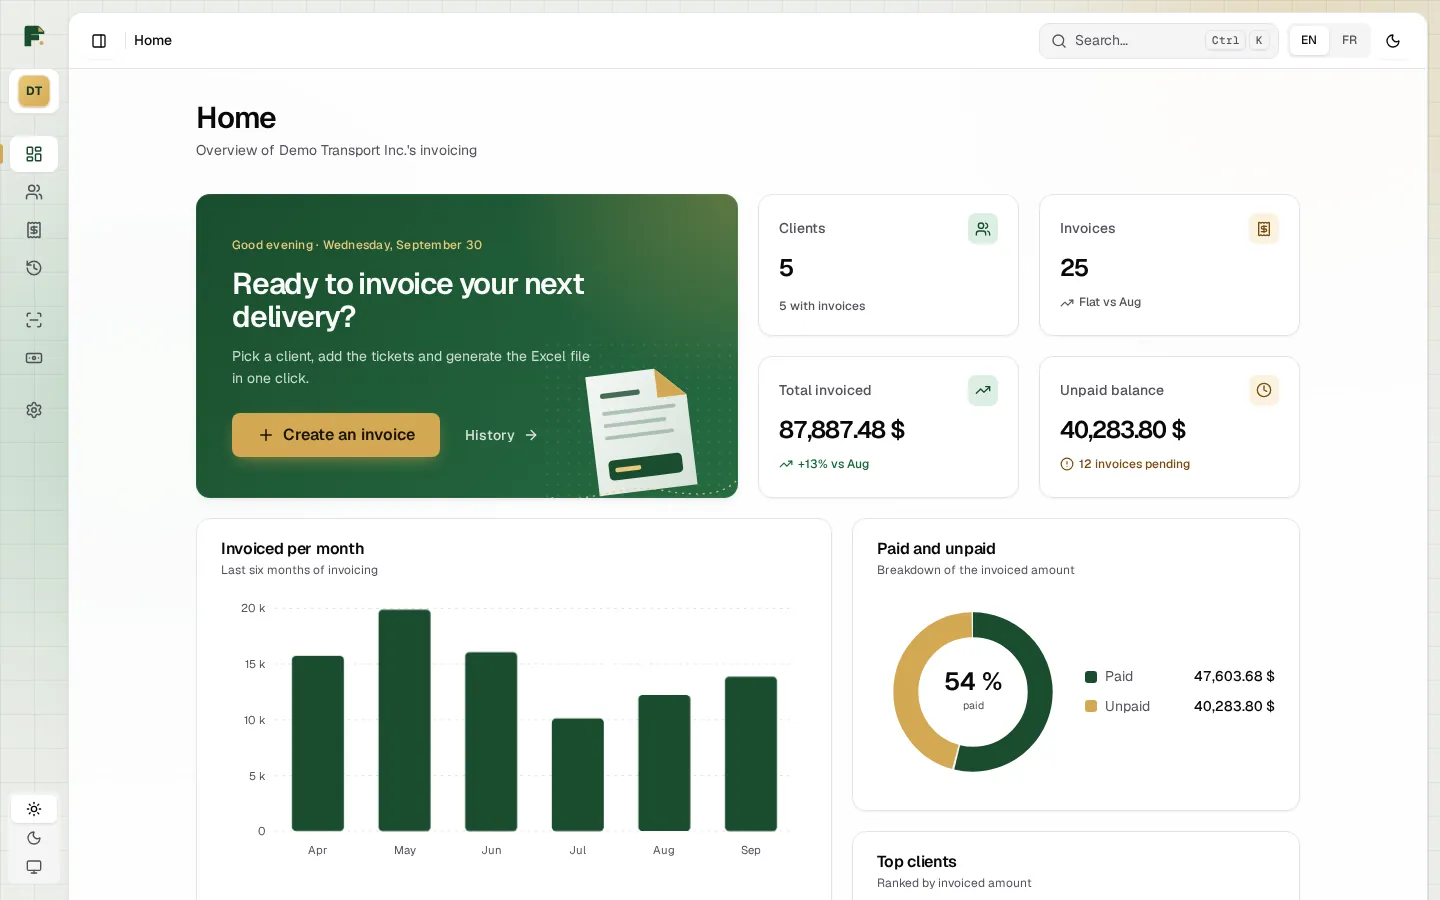
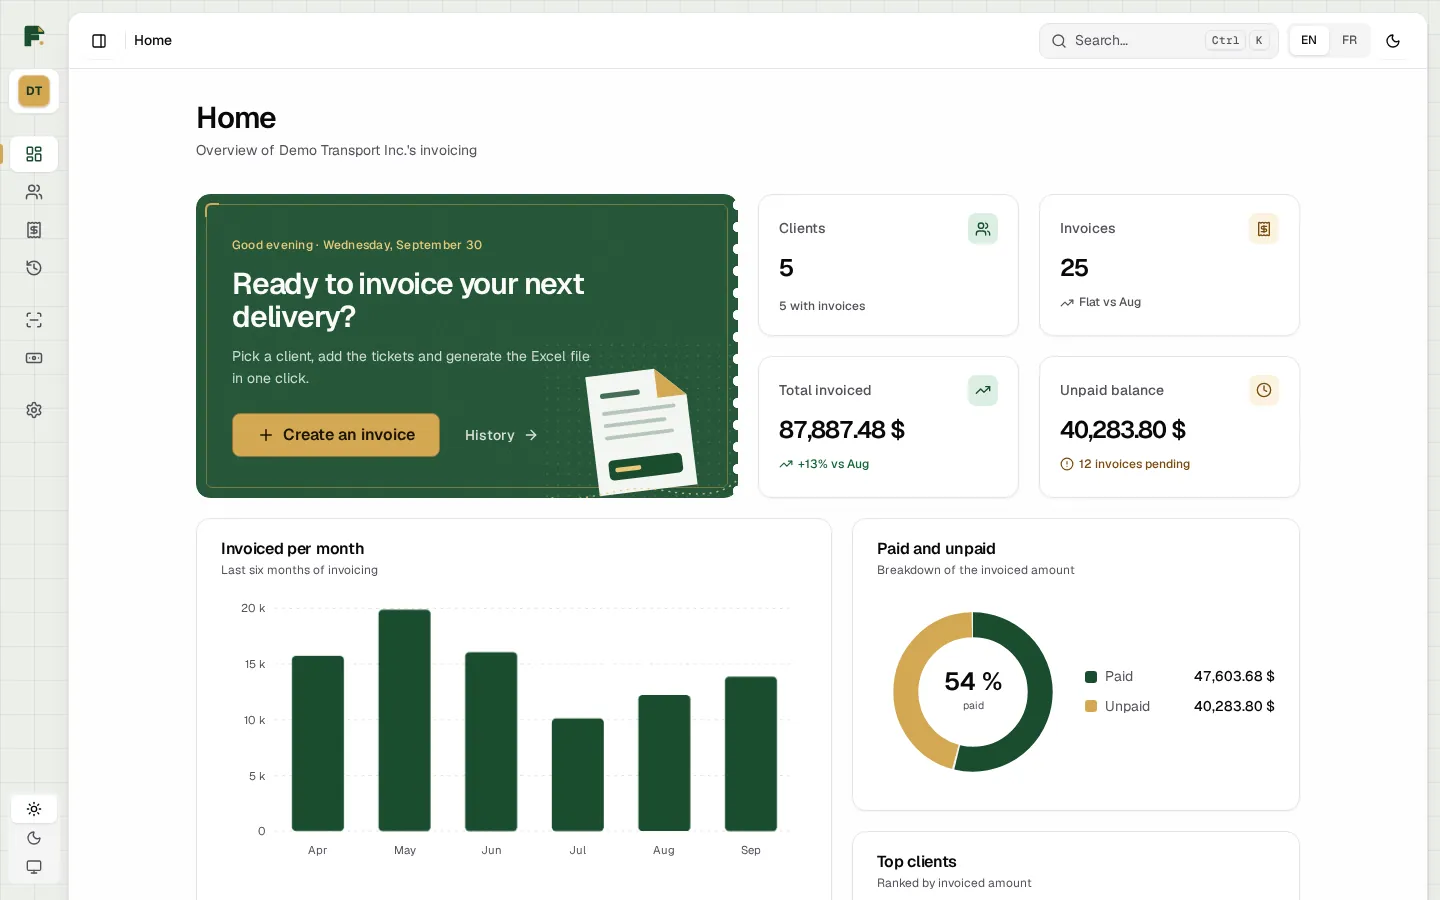
docs: flat-style screenshots, visual style notes and refreshed counts
Regenerates the ten README screenshots with the flat cards and the stamp,
documents the no-decorative-gradient rule and its allow-list in UI.md, adds
the CHANGELOG entry and updates the test counts.

diff --git a/docs/UI.md b/docs/UI.md
@@ -34,13 +34,29 @@ a colour in a component: use a token, so both themes stay correct.
 | `--success-*`, `--danger-*`, `--info-*`, `--gold-*` | fg / bg / border sets | dark sets | Status chips, alerts |
 | `--chart-1` … `--chart-5` | green, gold, mid green, brown, grey | lighter variants | Charts |
 | `--sidebar-*` | sidebar surface, text, accent | dark sidebar | Sidebar |
-| `--brand-deep`, `--brand-deep-2`, `--on-brand` | `#1a4d2e`, `#256b41`, `#fafafa` | same | Hero and invoice total card (always dark green) |
+| `--brand-deep`, `--on-brand` | `#1a4d2e`, `#fafafa` | `#14382a`, same | Hero and invoice total card: a flat dark green, never a gradient |
+| `--grain`, `--hairline-gold` | a faint noise image, gold at about 45% | same idea | The grain laid over flat cards and the page, and the thin gold frame on the brand cards |
 | `--radius` (+ `sm`, `md`, `lg`, `xl`, `full`) | `0.625rem` | same | Shape |
 | `--shadow-xs` … | soft shadows | stronger shadows | Elevation |
 
 Typography is Geist (sans) and Geist Mono, self-hosted from
 `static/fonts/` (`font-display: swap`, latin and latin-ext subsets, licence in
 `OFL.txt`). Sizes come from the `--text-xs` … `--text-3xl` tokens.
+
+## Visual style
+
+Flat colour plus precise detail, not gradients. The brand cards (hero, invoice
+summary, payments ledger) are one solid dark green with a faint
+grain, a thin gold hairline, and shapes that belong to the product: a perforated
+ticket edge, a notched tear line above the total, and a DRAFT or READY stamp. The
+page behind them is a flat pale ground with a ledger grid and the dotted route
+line. Hover states are a thin gold border and a 2px lift.
+
+A gradient is allowed only when it does a job: the grid lines, the loading
+shimmers, the scrim that keeps white buttons readable over photos, the
+transparency checkerboard, and the mask that cuts the ticket perforation.
+`tests/e2e/test_flat_background.py` lists every `gradient(` in the stylesheets and
+fails if a new one appears, so a decorative blend has to be argued for.
 
 ## File map
 
@@ -52,12 +68,13 @@ Typography is Geist (sans) and Geist Mono, self-hosted from
 | `base.css` | Reset, typography, focus ring, scrollbars, icons, `kbd` |
 | `shell.css` | App shell: floating panel, header, breadcrumb, mobile layout |
 | `sidebar.css` | Sidebar, collapsed rail, mobile drawer |
-| `background.css` | Decorative backdrop (grid, blobs, pauses under reduced motion) |
+| `background.css` | Decorative backdrop: ledger grid, a faint grain, the route motif; pauses under reduced motion |
+| `cards-flat.css` | The flat brand cards: hero, invoice summary, payments ledger. Gold hairline, grain, ticket perforation, tear line, DRAFT/READY stamp |
 | `components.css` | Buttons, inputs, selects, badges, cards, tables |
 | `components-overlays.css` | Dialogs, sheets, menus, popovers, tooltips, toasts, tabs |
 | `combobox.css` | Autocomplete and combobox panels |
 | `charts.css` | SVG charts and their tooltips |
-| `motion.css` | Transitions, spotlight glow, skeletons, `prefers-reduced-motion` |
+| `motion.css` | Transitions, the stat-card hover lift, skeletons, `prefers-reduced-motion` |
 | `home.css`, `pages*.css`, `payments.css`, `filters.css`, `facture-dialogs.css` | One file per page or feature |
 | `app.css` | Older shared rules still in use (nav, status chips, billet cards) |
 
@@ -79,7 +96,7 @@ node can test it.
 | `sidebar.js`, `shell.js` | Collapsible sidebar, workspace switcher, breadcrumb, theme buttons |
 | `theme.js` | Light, dark, system; loaded in `<head>` to avoid a flash |
 | `chart.js`, `chart-data.js` | SVG charts and their data shaping |
-| `countup.js`, `spotlight.js`, `backdrop.js`, `avatar.js` | Motion and decoration |
+| `countup.js`, `backdrop.js`, `avatar.js` | Motion and decoration |
 | `hydrate.js` | One `MutationObserver` that wires tabs, tooltips and menus after each re-render |
 
 `static/js/icons.js` is the Lucide (ISC) icon registry.
@@ -144,12 +161,12 @@ E2E tests depend on these hooks. Renaming one means updating the tests.
   a roving tabindex with typeahead. Toasts are announced through an
   `aria-live` region (errors use `role="alert"`).
 - Charts have text alternatives: values are reachable without hover.
-- `prefers-reduced-motion` stops the backdrop, count-up, spotlight and
+- `prefers-reduced-motion` stops the backdrop, count-up, the hover lift and
   transitions, and the app runs no animation-frame loop.
 - Contrast was checked with axe-core 4 on all seven pages, both themes, at
-  1440 and 390 px: no serious or critical violations. Text on gradients (which
-  axe reports as "needs review") was checked by sampling pixels; the muted
-  foreground and the invoice checklist colours were raised as a result.
+  1440 and 390 px: no serious or critical violations. Text on tinted grounds
+  (which axe reports as "needs review") was checked by sampling pixels; the
+  muted foreground and the invoice checklist colours were raised as a result.
   `tests/e2e/test_accessibility.py` guards the fixes.
 - Layout has no horizontal scroll at 390, 768 and 1440 px (e2e test).
 

diff --git a/CHANGELOG.md b/CHANGELOG.md
@@ -9,6 +9,9 @@ what the snapshot contains.
 
 ## [Unreleased]
 
+### Changed
+- The interface no longer uses decorative gradients. The hero, invoice summary and payments ledger are a flat green with a faint grain and a gold hairline. The hero gets a perforated ticket edge, and the invoice summary a notched tear line and a DRAFT/READY stamp. The blurred background blobs and the pointer-following glow on stat cards are gone. A test lists the gradients that remain and fails on any new one.
+
 ### Added
 - English and French. The interface and the server's messages switch between the two from the header, Settings or the command palette, with no reload; English is the default and the choice is kept per browser. Dates, numbers and money follow the language. Generated invoices and the AI prompts stay French. See `docs/I18N.md`.
 - `scripts/screenshots.py` regenerates the README screenshots in either language.

diff --git a/README.md b/README.md
@@ -72,7 +72,7 @@ Releases, rolling back automatically if an update fails.
   palette, with no reload. English is the default and the choice is remembered
   per browser. Dates, numbers and money follow the language. Generated
   invoices stay French. See [docs/I18N.md](docs/I18N.md).
-- **Tests and CI:** about 760 pytest tests (unit, API, Playwright e2e) plus
+- **Tests and CI:** about 780 pytest tests (unit, API, Playwright e2e) plus
   node tests, run with ruff on every push. See
   [docs/TESTING.md](docs/TESTING.md).
 

diff --git a/docs/TESTING.md b/docs/TESTING.md
@@ -34,7 +34,7 @@ The e2e suite needs `playwright install chromium` once.
 
 ## Figures (Linux, Python 3.12+)
 
-- 763 pytest tests collected. 749 pass, and 14 are skipped when optional real
+- 778 pytest tests collected. 764 pass, and 14 are skipped when optional real
   sample PDFs are missing (they are gitignored) or the machine isn't Windows
   (DPAPI). About 120 of them are Playwright e2e tests (`tests/e2e/`), which
   cover the interface: accessibility, overflow at 390/768 px, offline
